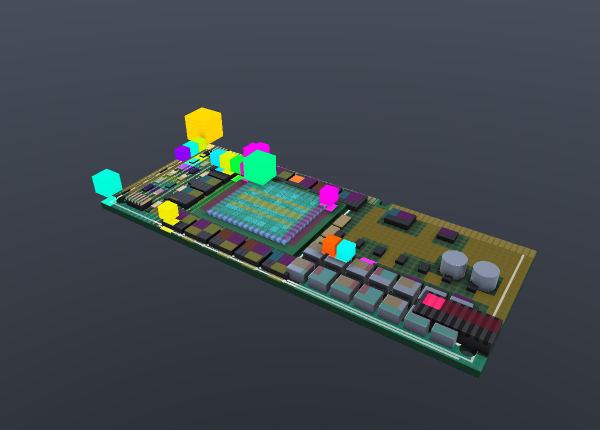
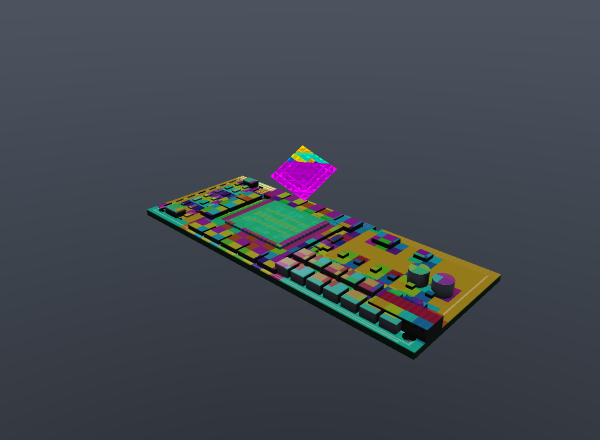
C1 rebuilt: absorb the card into atomic mini-cubes -> one dense cube, full reverse
Per operator: after the scan absorbs the card's elements into atomic parts, assemble
ALL the mini-cubes into ONE dense cube, and show the WHOLE process in the GIF incl.
the reverse (never cut halfway). Now: scan classifies every element by token colour,
the card is absorbed (dissolves) and every element becomes an atomic mini-cube, all
512 mini-cubes pack into one dense cube (grouped by colour) above where the card is,
hold, then the whole thing runs backwards and the card re-forms. Full compress ->
decompress cycle in one loop.

Claude-Session: https://claude.ai/code/session_01Sg2M1pJjrHFa9nHHDGVdLP

Changed region(s): [[0.15, 0.2419, 0.9, 0.8767]]

diff --git a/warp_shaders/scenes/warp_scan_merge.py b/warp_shaders/scenes/warp_scan_merge.py
@@ -1,23 +1,20 @@
-"""warp_scan_merge — C1: a scan reads the card, the same elements merge IN PLACE into growing digit-cubes.
+"""warp_scan_merge — C1: a scan absorbs the card's elements into atomic mini-cubes, packed into one dense cube.
 
-Operator spec (verbatim): *"one compression for example can just merge the same thing together and have
-digit to represent the locations of the vsrious same element that also grow a but the cube part."*
-And, sharply: *"you have to merge where the card is ... you are not supposed to break physics"* — the
-compression must happen **on the card**, not teleport into a fabricated cube floating in empty space.
+Operator spec (verbatim, 2026-07-16): *"you need to create a cube with all the minicube after you absorbed
+the cards elements in atomic parts, and you need to show me the whole process in the gif, not stop it
+halfway... I dont like when I dont see the whole process with the reverse."* Plus the physics rule:
+*"you have to merge where the card is ... you are not supposed to break physics."*
 
-The per-element merge (C1) as a physically-honest process on the real `gpu_board`:
+C1 as a full, reversible process on the real `gpu_board`:
 
-  1. **Scan** — a bright wavefront sweeps the real RTX board, reading it. In its wake every repeated
-     element is **classified**: identical pieces glow the **same colour** (the same C1 token, from the
-     card's own block-dedup in `warp_compress.mergecube`).
-  2. **Merge, where the card is** — for each repeated element, all its copies **merge into one place on
-     the board** — its own canonical location — and a **cube of digits grows right there**, out of the
-     card, its size set by **how many copies merged** (the count = the digits that represent the
-     locations of the various same element). The redundant copies fade to dim ghosts as their
-     information moves into the growing cube. The cube grows **on the card**, never beside it.
-
-Two patches share a hue iff they are byte-identical blocks in `warp_compress.mergecube`; a growing
-cube's size is exactly that token's occurrence count. `time` runs scan → merge → hold, then loops.
+  1. **Scan** — a bright wavefront sweeps the real RTX board, reading it; in its wake every element is
+     **classified** into its `warp_compress.mergecube` token (identical elements share a colour).
+  2. **Absorb → atomic mini-cubes** — the card is absorbed: each element becomes an atomic **mini-cube**
+     coloured by its token, and the board dissolves as its material is taken up.
+  3. **One dense cube** — all the mini-cubes pack together, above where the card is, into a single dense
+     **cube of atomic mini-cubes** (grouped by colour) — the merged, compressed store.
+  4. **Reverse** — then it runs backwards: the cube unpacks and the card re-forms. `time` shows the whole
+     cycle (compress → hold → decompress → the card), then loops. Nothing is cut off halfway.
 """
 
 import math
@@ -34,16 +31,15 @@ from warp_compress import mergecube as mc
 from warp_compress.foldcube import sample_card, _BB
 
 _MAXD = 40.0
-_CYCLE = 10.0
+_CYCLE = 12.0
 _BLOCK = 5
-_NTOK = 16                       # the most-repeated elements each grow a cube (kept legible + fast)
-_CSTEP = 0.135                   # cube side = _CSTEP * (merged count)^(1/3)
-_CBASE = 0.30                    # cube base y — sits on top of the board's components, grows upward
-_CMAX = 0.62                     # cap the cube side
+_NATOM = 512                     # atomic mini-cubes packed into the dense cube (<= 8^3, legible + fast)
+_CSTEP = 0.12                    # mini-cube pitch in the dense cube
+_CCTR = wp.vec3(0.0, 1.7, 0.0)   # the dense cube floats just above where the card is (its material)
 
 
 def _maps():
-    """token id per board column + canonical mask + per-token (canonical world x,z on the card, count)."""
+    """token id per board column (for the scan-classify) + the ordered token list for the dense cube."""
     b = _BLOCK
     occ = sample_card()
     vocab, index, meta = mc.compress(occ, block=b)
@@ -58,42 +54,28 @@ def _maps():
         has = occ_blocks[:, by, :]
         fill = (tok2d < 0) & has
         tok2d[fill] = index[:, by, :][fill]
-    ids, counts = np.unique(tok2d[tok2d >= 0], return_counts=True)
-    cmap = {int(i): int(c) for i, c in zip(ids, counts)}
-    repeated = set(i for i in cmap if cmap[i] >= 4)          # "the same thing" in many places
-    canon = np.zeros((nbx, nbz), np.int32)
-    seen = set()
-    pos = {}
+    # every occupied block is an ATOM (a mini-cube); collect them, grouped by token -> colour bands
+    atoms = []
     for bi in range(nbx):
-        for bk in range(nbz):
-            tid = int(tok2d[bi, bk])
-            if tid not in repeated:
-                tok2d[bi, bk] = -1                            # unique/rare pieces stay bare board
-                continue
-            if tid not in seen:
-                seen.add(tid)
-                canon[bi, bk] = 1                            # one canonical survivor per element
-                pos[tid] = (bi, bk)
-    # top-N repeated elements by count — each grows a cube at ITS OWN spot on the card
-    order = sorted(repeated, key=lambda t: -cmap[t])[:_NTOK]
-    bx, bz = _BB[1], _BB[5]
-    n = len(order)
-    tcx = np.zeros(n, np.float32); tcz = np.zeros(n, np.float32)
-    tcnt = np.zeros(n, np.float32); ttid = np.zeros(n, np.int32)
-    for k, tid in enumerate(order):
-        bi, bk = pos[tid]
-        tcx[k] = -bx + (bi + 0.5) / nbx * 2.0 * bx           # canonical location, in board/world space
-        tcz[k] = -bz + (bk + 0.5) / nbz * 2.0 * bz
-        tcnt[k] = float(cmap[tid])
-        ttid[k] = tid
-    return (np.ascontiguousarray(tok2d), np.ascontiguousarray(canon),
-            np.ascontiguousarray(tcx), np.ascontiguousarray(tcz),
-            np.ascontiguousarray(tcnt), np.ascontiguousarray(ttid))
+        for by in range(nby):
+            for bk in range(nbz):
+                if occ_blocks[bi, by, bk]:
+                    atoms.append(int(index[bi, by, bk]))
+    atoms.sort()                                          # group identical tokens together
+    if len(atoms) > _NATOM:                               # subsample to a clean cube, keep colour spread
+        idx = np.linspace(0, len(atoms) - 1, _NATOM).astype(int)
+        atoms = [atoms[i] for i in idx]
+    n = len(atoms)
+    side = max(1, int(math.ceil(n ** (1.0 / 3.0))))
+    cube_tok = np.full(side ** 3, -1, np.int32)
+    cube_tok[:n] = np.asarray(atoms, np.int32)
+    return np.ascontiguousarray(tok2d), np.ascontiguousarray(cube_tok), side, n
 
 
-_TOK2D, _CANON, _TCX, _TCZ, _TCNT, _TTID = _maps()
+_TOK2D, _CUBE_TOK, _CSIDE, _NCELL = _maps()
 _NBX, _NBZ = _TOK2D.shape
-_NT = int(_TCX.shape[0])
+_CSPAN = _CSTEP * float(_CSIDE)
+_CORG = wp.vec3(_CCTR[0] - 0.5 * _CSPAN, _CCTR[1] - 0.5 * _CSPAN, _CCTR[2] - 0.5 * _CSPAN)
 
 
 @wp.func
@@ -111,63 +93,51 @@ def _tokcolor(tid: int) -> wp.vec3:
 
 
 @wp.func
-def _cube_side(cnt: float, mrg: float) -> float:
-    revealed = wp.max(mrg * cnt, 0.001)                      # copies merged so far
-    return wp.min(_CSTEP * wp.pow(revealed, 0.3333), _CMAX)
+def _cube_idx(p: wp.vec3, side: int) -> int:
+    q = p - _CORG
+    cx = int(wp.floor(q[0] / _CSTEP))
+    cy = int(wp.floor(q[1] / _CSTEP))
+    cz = int(wp.floor(q[2] / _CSTEP))
+    if cx < 0 or cy < 0 or cz < 0 or cx >= side or cy >= side or cz >= side:
+        return -1
+    return cx + side * (cz + side * cy)
 
 
 @wp.func
-def _cube_sdf(p: wp.vec3, nt: int, cx: wp.array(dtype=float), cz: wp.array(dtype=float),
-              cnt: wp.array(dtype=float), mrg: float) -> float:
-    best = _MAXD
-    for k in range(nt):
-        s = _cube_side(cnt[k], mrg)
-        c = wp.vec3(cx[k], _CBASE + s * 0.5, cz[k])
-        d = sd_box(p - c, wp.vec3(s * 0.5, s * 0.5, s * 0.5))
-        if d < best:
-            best = d
-    return best
+def _cube_sdf(p: wp.vec3, side: int, revealed: int) -> float:
+    idx = _cube_idx(p, side)
+    if idx < 0 or idx >= revealed:
+        return _MAXD
+    q = p - _CORG
+    cx = wp.floor(q[0] / _CSTEP); cy = wp.floor(q[1] / _CSTEP); cz = wp.floor(q[2] / _CSTEP)
+    center = _CORG + wp.vec3((cx + 0.5) * _CSTEP, (cy + 0.5) * _CSTEP, (cz + 0.5) * _CSTEP)
+    return sd_box(p - center, wp.vec3(_CSTEP * 0.40, _CSTEP * 0.40, _CSTEP * 0.40))
 
 
 @wp.func
-def _cube_nearest(p: wp.vec3, nt: int, cx: wp.array(dtype=float), cz: wp.array(dtype=float),
-                  cnt: wp.array(dtype=float), mrg: float) -> int:
-    best = _MAXD
-    idx = int(-1)
-    for k in range(nt):
-        s = _cube_side(cnt[k], mrg)
-        c = wp.vec3(cx[k], _CBASE + s * 0.5, cz[k])
-        d = sd_box(p - c, wp.vec3(s * 0.5, s * 0.5, s * 0.5))
-        if d < best:
-            best = d
-            idx = k
-    return idx
+def _cmap(p: wp.vec3, time: float, side: int, revealed: int, cardf: float) -> float:
+    dc = _cube_sdf(p, side, revealed)
+    if cardf < 0.02:
+        return dc
+    return wp.min(board_map(p), dc)
 
 
 @wp.func
-def _cmap(p: wp.vec3, nt: int, cx: wp.array(dtype=float), cz: wp.array(dtype=float),
-          cnt: wp.array(dtype=float), mrg: float) -> float:
-    return wp.min(board_map(p), _cube_sdf(p, nt, cx, cz, cnt, mrg))
-
-
[email redacted]
-def _fnormal(p: wp.vec3, nt: int, cx: wp.array(dtype=float), cz: wp.array(dtype=float),
-             cnt: wp.array(dtype=float), mrg: float) -> wp.vec3:
+def _fnormal(p: wp.vec3, time: float, side: int, revealed: int, cardf: float) -> wp.vec3:
     e = 0.0012
-    dx = _cmap(p + wp.vec3(e, 0.0, 0.0), nt, cx, cz, cnt, mrg) - _cmap(p - wp.vec3(e, 0.0, 0.0), nt, cx, cz, cnt, mrg)
-    dy = _cmap(p + wp.vec3(0.0, e, 0.0), nt, cx, cz, cnt, mrg) - _cmap(p - wp.vec3(0.0, e, 0.0), nt, cx, cz, cnt, mrg)
-    dz = _cmap(p + wp.vec3(0.0, 0.0, e), nt, cx, cz, cnt, mrg) - _cmap(p - wp.vec3(0.0, 0.0, e), nt, cx, cz, cnt, mrg)
+    dx = _cmap(p + wp.vec3(e, 0.0, 0.0), time, side, revealed, cardf) - _cmap(p - wp.vec3(e, 0.0, 0.0), time, side, revealed, cardf)
+    dy = _cmap(p + wp.vec3(0.0, e, 0.0), time, side, revealed, cardf) - _cmap(p - wp.vec3(0.0, e, 0.0), time, side, revealed, cardf)
+    dz = _cmap(p + wp.vec3(0.0, 0.0, e), time, side, revealed, cardf) - _cmap(p - wp.vec3(0.0, 0.0, e), time, side, revealed, cardf)
     return wp.normalize(wp.vec3(dx, dy, dz))
 
 
 @wp.func
-def _fao(p: wp.vec3, n: wp.vec3, nt: int, cx: wp.array(dtype=float), cz: wp.array(dtype=float),
-         cnt: wp.array(dtype=float), mrg: float) -> float:
+def _fao(p: wp.vec3, n: wp.vec3, time: float, side: int, revealed: int, cardf: float) -> float:
     occ = float(0.0)
     sca = float(1.0)
     for k in range(5):
         hr = 0.012 + 0.06 * float(k)
-        d = _cmap(p + n * hr, nt, cx, cz, cnt, mrg)
+        d = _cmap(p + n * hr, time, side, revealed, cardf)
         occ += (hr - d) * sca
         sca *= 0.85
     return wp.clamp(1.0 - 2.0 * occ, 0.0, 1.0)
@@ -175,12 +145,11 @@ def _fao(p: wp.vec3, n: wp.vec3, nt: int, cx: wp.array(dtype=float), cz: wp.arra
 
 @wp.kernel
 def _render_kernel(img: wp.array2d(dtype=wp.vec3), tok: wp.array2d(dtype=wp.int32),
-                   canon: wp.array2d(dtype=wp.int32),
-                   tcx: wp.array(dtype=float), tcz: wp.array(dtype=float),
-                   tcnt: wp.array(dtype=float), ttid: wp.array(dtype=wp.int32), nt: int,
+                   cube_tok: wp.array(dtype=wp.int32), side: int, revealed: int,
                    nbx: int, nbz: int,
                    eye: wp.vec3, fwd: wp.vec3, right: wp.vec3, up: wp.vec3, width: int, height: int,
-                   time: float, tanfov: float, bx: float, bz: float, front: float, mrg: float):
+                   time: float, tanfov: float, bx: float, bz: float, front: float, cardf: float,
+                   absorb: float):
     i, j = wp.tid()
     aspect = float(width) / float(height)
     u = (2.0 * (float(j) + 0.5) / float(width) - 1.0) * tanfov * aspect
@@ -189,9 +158,9 @@ def _render_kernel(img: wp.array2d(dtype=wp.vec3), tok: wp.array2d(dtype=wp.int3
 
     t = float(0.0)
     hit = int(0)
-    for _ in range(220):
+    for _ in range(230):
         p = eye + rd * t
-        d = _cmap(p, nt, tcx, tcz, tcnt, mrg)
+        d = _cmap(p, time, side, revealed, cardf)
         if d < 0.0007 * t + 0.0004:
             hit = 1
             break
@@ -204,28 +173,27 @@ def _render_kernel(img: wp.array2d(dtype=wp.vec3), tok: wp.array2d(dtype=wp.int3
         return
 
     p = eye + rd * t
-    db = board_map(p)
-    dc = _cube_sdf(p, nt, tcx, tcz, tcnt, mrg)
-    n = _fnormal(p, nt, tcx, tcz, tcnt, mrg)
-    ao = _fao(p, n, nt, tcx, tcz, tcnt, mrg)
+    dc = _cube_sdf(p, side, revealed)
+    db = _MAXD
+    if cardf >= 0.02:
+        db = board_map(p)
+    n = _fnormal(p, time, side, revealed, cardf)
+    ao = _fao(p, n, time, side, revealed, cardf)
 
     if dc < db:
-        # a growing digit-cube, standing on the card at its element's own location
-        idx = _cube_nearest(p, nt, tcx, tcz, tcnt, mrg)
-        tc = _tokcolor(ttid[idx])
-        s = _cube_side(tcnt[idx], mrg)
-        c = wp.vec3(tcx[idx], _CBASE + s * 0.5, tcz[idx])
-        loc = (p - c) / wp.max(s, 0.001)                     # -0.5..0.5 within the cube
-        # a lattice of digit-cells: bright faces, dark grid lines
-        gx = wp.abs(wp.sin(loc[0] * 22.0))
-        gy = wp.abs(wp.sin(loc[1] * 22.0))
-        gz = wp.abs(wp.sin(loc[2] * 22.0))
-        grid = wp.min(wp.min(gx, gy), gz)
+        idx = _cube_idx(p, side)
+        tc = _tokcolor(cube_tok[idx])
+        q = p - _CORG
+        lx = q[0] / _CSTEP - wp.floor(q[0] / _CSTEP)
+        ly = q[1] / _CSTEP - wp.floor(q[1] / _CSTEP)
+        lz = q[2] / _CSTEP - wp.floor(q[2] / _CSTEP)
+        edge = wp.min(wp.min(wp.min(lx, 1.0 - lx), wp.min(ly, 1.0 - ly)), wp.min(lz, 1.0 - lz))
+        gl = wp.clamp(edge * 9.0, 0.35, 1.0)                 # dark seams between mini-cubes
         lit = wp.clamp(wp.dot(n, wp.normalize(wp.vec3(0.4, 0.85, 0.45))), 0.2, 1.0)
-        img[i, j] = tc * ((0.5 + 0.7 * lit) * ao) * (0.55 + 0.45 * grid) + tc * 0.35
+        img[i, j] = tc * ((0.5 + 0.6 * lit) * ao * gl) + tc * 0.3
         return
 
-    # the board itself — scan classify + duplicates ghosting into their cube
+    # the board, fading as it is absorbed; scan classifies in its wake
     col = board_shade(p, n, rd, ao, time)
     face = wp.clamp(n[1], 0.0, 1.0)
     bi = int(wp.clamp((p[0] + bx) / (2.0 * bx) * float(nbx), 0.0, float(nbx - 1)))
@@ -234,59 +202,66 @@ def _render_kernel(img: wp.array2d(dtype=wp.vec3), tok: wp.array2d(dtype=wp.int3
     if tid >= 0 and p[0] < front:
         tc = _tokcolor(tid)
         reveal = wp.clamp((front - p[0]) * 2.5, 0.0, 1.0)
-        is_canon = float(canon[bi, bk])
-        keep = 1.0 - mrg * (1.0 - is_canon)
-        amt = reveal * keep
-        col = col * (1.0 - 0.6 * amt * face) + tc * (0.9 * amt * face)
-        # merged duplicates fade to a dim ghost (their info moved into the growing cube on the card)
-        gone = mrg * (1.0 - is_canon) * reveal
-        col = col * (1.0 - 0.62 * gone * face) + tc * (0.10 * gone * face)
+        col = col * (1.0 - 0.55 * reveal * face) + tc * (0.85 * reveal * face)   # classify by token colour
+    col = col * cardf                                        # the whole card dims as it is absorbed
 
-    # the scan wavefront: a bright cyan-white bar
     band = wp.abs(p[0] - front)
-    if band < 0.18:
-        g = 1.0 - band / 0.18
-        col = col + wp.vec3(0.45, 0.85, 1.0) * (g * g * 1.7 * face) \
-            + wp.vec3(1.0, 1.0, 1.0) * (g * g * g * 1.3 * face)
+    if band < 0.16 and cardf > 0.3:
+        g = 1.0 - band / 0.16
+        col = col + wp.vec3(0.45, 0.85, 1.0) * (g * g * 1.6 * face) \
+            + wp.vec3(1.0, 1.0, 1.0) * (g * g * g * 1.2 * face)
 
     img[i, j] = col
 
 
+def _smooth(x):
+    x = min(1.0, max(0.0, x))
+    return x * x * (3.0 - 2.0 * x)
+
+
 def _state(time):
+    """(scan-front, card_fade, revealed-cells, absorb) — scan -> absorb into cube -> hold -> reverse -> card."""
     u = (float(time) % _CYCLE) / _CYCLE
     bx = _BB[1]
-    if u < 0.5:                                    # scan sweeps across (read + classify)
-        return -bx + (2.0 * bx + 0.5) * (u / 0.5), 0.0
-    if u < 0.8:                                    # copies merge in place; the digit-cubes grow
-        return bx + 0.5, (u - 0.5) / 0.3
-    return bx + 0.5, 1.0                            # hold the merged state
+    fs = -bx + (2.0 * bx + 0.6)                              # front fully past the board
+    if u < 0.28:                                            # scan reads + classifies
+        fr = -bx + (2.0 * bx + 0.6) * (u / 0.28)
+        return fr, 1.0, 0, 0.0
+    if u < 0.48:                                            # absorb: card dissolves, cube assembles
+        a = _smooth((u - 0.28) / 0.20)
+        return fs, 1.0 - 0.9 * a, int(a * float(_NCELL)), a
+    if u < 0.60:                                            # hold the dense cube
+        return fs, 0.1, _NCELL, 1.0
+    if u < 0.80:                                            # reverse: cube unpacks, card re-forms
+        a = _smooth((u - 0.60) / 0.20)
+        return fs, 0.1 + 0.9 * a, int((1.0 - a) * float(_NCELL)), 1.0 - a
+    # settle back to the card
+    fr = -bx + (2.0 * bx + 0.6) * (1.0 - (u - 0.80) / 0.20)
+    return fr, 1.0, 0, 0.0
 
 
 def _render(width, height, time, mouse, device):
-    front, mrg = _state(time)
+    front, cardf, revealed, absorb = _state(time)
     tok = wp.array2d(_TOK2D, dtype=wp.int32, device=device)
-    canon = wp.array2d(_CANON, dtype=wp.int32, device=device)
-    tcx = wp.array(_TCX, dtype=float, device=device)
-    tcz = wp.array(_TCZ, dtype=float, device=device)
-    tcnt = wp.array(_TCNT, dtype=float, device=device)
-    ttid = wp.array(_TTID, dtype=wp.int32, device=device)
+    cube_tok = wp.array(_CUBE_TOK, dtype=wp.int32, device=device)
 
-    az = 0.58 + float(mouse[0]) * 0.006
-    el = 0.60
-    dist = 9.6
-    tgt = wp.vec3(-0.1, 0.25, 0.0)
+    az = 0.58 + 0.25 * math.sin(time * 0.15) + float(mouse[0]) * 0.006
+    el = 0.46
+    dist = 11.0
+    tgt = wp.vec3(-0.1, 0.55 * absorb, 0.0)                  # drift up toward the cube as it forms
     eye = tgt + wp.vec3(dist * math.cos(el) * math.sin(az), dist * math.sin(el),
                         dist * math.cos(el) * math.cos(az))
     fwd = wp.normalize(tgt - eye)
     right = wp.normalize(wp.cross(fwd, wp.vec3(0.0, 1.0, 0.0)))
     up = wp.cross(right, fwd)
-    tanfov = math.tan(math.radians(44.0) * 0.5)
+    tanfov = math.tan(math.radians(46.0) * 0.5)
 
     img = wp.zeros((height, width), dtype=wp.vec3, device=device)
     wp.launch(_render_kernel, dim=(height, width),
-              inputs=[img, tok, canon, tcx, tcz, tcnt, ttid, _NT, _NBX, _NBZ,
+              inputs=[img, tok, cube_tok, _CSIDE, revealed, _NBX, _NBZ,
                       eye, fwd, right, up, width, height,
-                      float(time), tanfov, float(_BB[1]), float(_BB[5]), float(front), float(mrg)],
+                      float(time), tanfov, float(_BB[1]), float(_BB[5]), float(front),
+                      float(cardf), float(absorb)],
               device=device)
     wp.synchronize_device(device)
     return post.tonemap(img.numpy(), mode="aces", exposure=1.1, preserve_hue=True)
@@ -294,10 +269,9 @@ def _render(width, height, time, mouse, device):
 
 SCENE = Scene(
     name="warp_scan_merge",
-    description="C1 as a physically-honest process: a scan sweeps the real RTX board and classifies "
-                "every element (identical pieces glow the same warp_compress.mergecube token colour); "
-                "then each repeated element's copies merge IN PLACE at its own location on the card, "
-                "growing a digit-cube whose size is how many copies merged — the compression happens "
-                "where the card is, never in a floating cube beside it.",
+    description="C1 as a full reversible process: a scan reads the real RTX board and classifies every "
+                "element by its warp_compress token colour, the card is absorbed into atomic mini-cubes, "
+                "and all the mini-cubes pack into one dense cube (the merged store) above where the card "
+                "is — then it runs in reverse and the card re-forms. The whole compress/decompress cycle.",
     renderer=_render,
 )